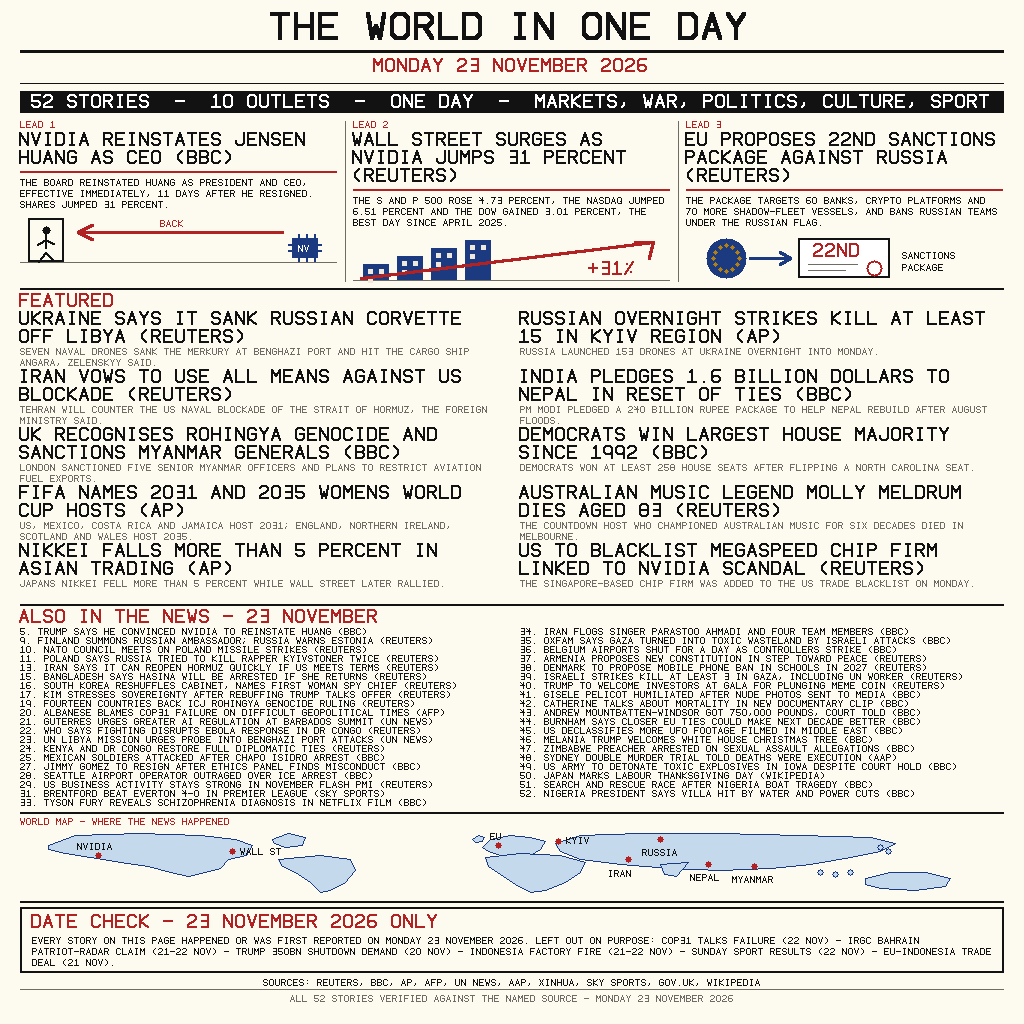
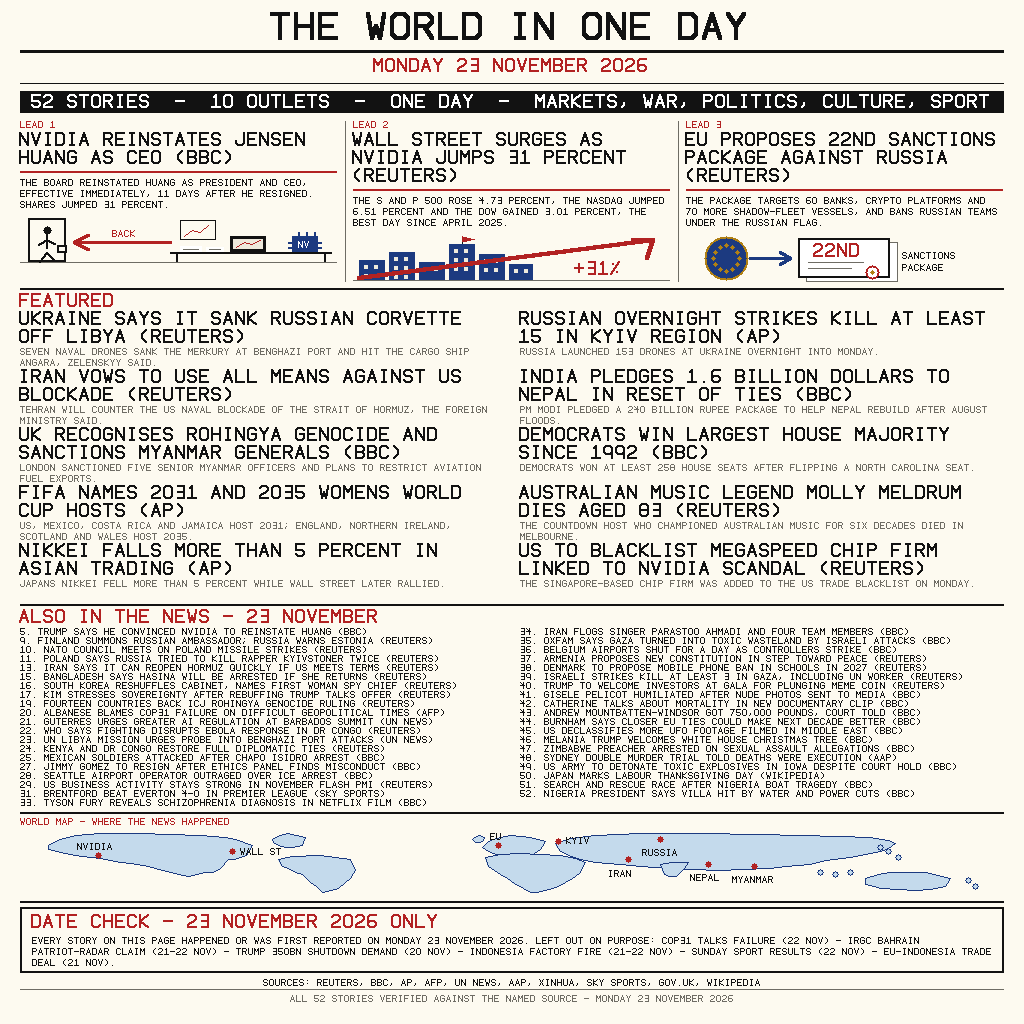
Rev2: detailed lead scenes + smoother world map (52 verified stories)

diff --git a/main.py b/main.py
@@ -303,61 +303,86 @@ DATE_CHECK = ("EVERY STORY ON THIS PAGE HAPPENED OR WAS FIRST REPORTED ON "
 # no network. Written fresh for this revision; each scene is 48 px tall.
 
 def draw_lead1(c, x, y, w):
-    """Nvidia CEO returns: a figure walks back through an office door,
-    a red BACK arrow points in, a chip waits on the right."""
+    """Nvidia CEO returns: a richer office scene — open door, a figure
+    walking back in with a briefcase, desk with monitor, papers and a
+    chip, a wall chart, and a red BACK arrow pointing into the door."""
     c.hline(x, y + 46, w, GREY, 1)
     # open doorway, left
-    c.box(x + 8, y + 2, 36, 44, INK, 2)
-    # figure walking in through the door
-    hx, hy = x + 26, y + 14
+    c.box(x + 8, y + 2, 38, 44, INK, 2)
+    # figure walking in through the door, briefcase in hand
+    hx, hy = x + 27, y + 14
     c.circle(hx, hy, 4, INK)
     c.line(hx, hy + 5, hx, hy + 18, INK, 2)
     c.line(hx, hy + 23, hx - 7, hy + 32, INK, 2)
     c.line(hx, hy + 23, hx + 7, hy + 30, INK, 2)
     c.line(hx, hy + 10, hx - 8, hy + 15, INK, 2)
     c.line(hx, hy + 10, hx + 8, hy + 14, INK, 2)
+    c.rect(hx + 10, hy + 15, 10, 8, INK)
+    c.rect(hx + 12, hy + 17, 6, 4, PAPER)
     # red BACK arrow pointing left into the door
-    c.line(x + 262, y + 16, x + 58, y + 16, RED, 3)
-    c.line(x + 58, y + 16, x + 72, y + 9, RED, 3)
-    c.line(x + 58, y + 16, x + 72, y + 23, RED, 3)
-    c.text("BACK", x + 140, y + 4, 1, RED)
-    # chip, right
-    c.rect(x + 272, y + 22, 26, 20, BLUE)
+    c.line(x + 150, y + 26, x + 54, y + 26, RED, 3)
+    c.line(x + 54, y + 26, x + 68, y + 19, RED, 3)
+    c.line(x + 54, y + 26, x + 68, y + 33, RED, 3)
+    c.text("BACK", x + 92, y + 14, 1, RED)
+    # framed wall chart
+    c.box(x + 160, y + 4, 36, 20, INK, 1)
+    c.line(x + 164, y + 20, x + 172, y + 14, RED, 1)
+    c.line(x + 172, y + 14, x + 180, y + 16, RED, 1)
+    c.line(x + 180, y + 16, x + 188, y + 9, RED, 1)
+    # desk with papers, monitor and chip
+    c.hline(x + 150, y + 36, 162, INK, 2)
+    c.vline(x + 156, y + 36, 10, INK, 2)
+    c.vline(x + 304, y + 36, 10, INK, 2)
+    c.rect(x + 160, y + 30, 22, 6, WHITE)
+    c.hline(x + 163, y + 33, 16, GREY, 1)
+    c.rect(x + 186, y + 31, 18, 5, WHITE)
+    c.hline(x + 189, y + 33, 12, GREY, 1)
+    c.rect(x + 210, y + 20, 36, 16, INK)
+    c.rect(x + 213, y + 23, 30, 10, LIGHT)
+    c.line(x + 216, y + 31, x + 224, y + 26, RED, 1)
+    c.line(x + 224, y + 26, x + 232, y + 28, RED, 1)
+    c.line(x + 232, y + 28, x + 240, y + 24, RED, 1)
+    # chip, right, sitting on the desk
+    c.rect(x + 272, y + 20, 26, 16, BLUE)
     for px in (x + 278, x + 286, x + 294):
-        c.vline(px, y + 18, 4, BLUE, 2)
-        c.vline(px, y + 42, 4, BLUE, 2)
-    c.hline(x + 268, y + 28, 4, BLUE, 2)
-    c.hline(x + 268, y + 34, 4, BLUE, 2)
-    c.hline(x + 298, y + 28, 4, BLUE, 2)
-    c.hline(x + 298, y + 34, 4, BLUE, 2)
-    c.text("NV", x + 278, y + 29, 1, WHITE)
+        c.vline(px, y + 16, 4, BLUE, 2)
+    c.hline(x + 268, y + 26, 4, BLUE, 2)
+    c.hline(x + 268, y + 31, 4, BLUE, 2)
+    c.hline(x + 298, y + 26, 4, BLUE, 2)
+    c.hline(x + 298, y + 31, 4, BLUE, 2)
+    c.text("NV", x + 278, y + 25, 1, WHITE)
 
 
 def draw_lead2(c, x, y, w):
-    """Wall Street surges: a rising skyline and a red arrow climbing
-    past it, +31% at the top."""
+    """Wall Street surges: a fuller skyline with lit windows, a flag on
+    the tallest tower, and a bold red arrow climbing past it, +31%."""
     c.hline(x, y + 46, w, GREY, 1)
-    # skyline, buildings of rising height
-    builds = [(10, 30, 26, 16), (44, 22, 26, 24), (78, 14, 26, 32),
-              (112, 6, 26, 40)]
-    for bx, by, bw, bh in builds:
-        c.rect(x + bx, y + by, bw, bh, BLUE)
-        c.rect(x + bx + 5, y + by + 5, 5, 5, LIGHT)
-        c.rect(x + bx + 16, y + by + 5, 5, 5, LIGHT)
-        c.rect(x + bx + 5, y + by + 14, 5, 5, LIGHT)
-    # rising arrow over the skyline
-    c.line(x + 8, y + 44, x + 300, y + 8, RED, 3)
-    c.line(x + 300, y + 8, x + 282, y + 8, RED, 3)
-    c.line(x + 300, y + 8, x + 296, y + 24, RED, 3)
-    c.text("+31%", x + 236, y + 28, 2, RED)
+    # skyline, six buildings of rising and falling height
+    builds = [(6, 26, 26), (36, 18, 26), (66, 28, 26),
+              (96, 10, 26), (126, 20, 26), (156, 30, 24)]
+    for bx, top, bw in builds:
+        c.rect(x + bx, y + top, bw, 46 - top, BLUE)
+        for wx in (bx + 5, bx + 15):
+            if wx + 4 > bx + bw - 3:
+                continue
+            for wy in range(top + 5, 42, 9):
+                c.rect(x + wx, y + wy, 4, 4, LIGHT)
+    # flag on the tallest tower
+    c.vline(x + 109, y + 2, 8, INK, 1)
+    c.poly([(x + 109, y + 2), (x + 121, y + 5), (x + 109, y + 8)], RED)
+    # bold rising arrow over the skyline
+    c.line(x + 6, y + 44, x + 300, y + 6, RED, 4)
+    c.line(x + 300, y + 6, x + 280, y + 6, RED, 4)
+    c.line(x + 300, y + 6, x + 294, y + 24, RED, 4)
+    c.text("+31%", x + 222, y + 28, 2, RED)
 
 
 def draw_lead3(c, x, y, w):
-    """EU sanctions package: a blue circle of gold stars, an arrow to
-    a stamped document marked 22ND."""
-    # EU circle of stars
+    """EU sanctions package: a gold-rimmed circle of stars, an arrow to
+    a layered document with a red seal, 22ND clear."""
+    # EU circle of stars with a gold rim
     cx, cy = x + 40, y + 24
-    c.circle(cx, cy, 20, BLUE)
+    c.ring(cx, cy, 22, GOLD, 2, BLUE)
     for k in range(12):
         ang = math.radians(k * 30)
         sx = cx + int(13 * math.cos(ang))
@@ -367,14 +392,17 @@ def draw_lead3(c, x, y, w):
     c.line(x + 64, y + 24, x + 104, y + 24, BLUE, 3)
     c.line(x + 104, y + 24, x + 94, y + 18, BLUE, 3)
     c.line(x + 104, y + 24, x + 94, y + 30, BLUE, 3)
-    # document
+    # layered document: back sheet offset, front sheet with seal
+    c.rect(x + 120, y + 8, 92, 40, WHITE)
+    c.box(x + 120, y + 8, 92, 40, GREY, 1)
     c.rect(x + 112, y + 4, 92, 40, WHITE)
     c.box(x + 112, y + 4, 92, 40, INK, 2)
     c.text("22ND", x + 128, y + 10, 2, RED)
-    c.hline(x + 122, y + 30, 50, GREY, 1)
-    c.hline(x + 122, y + 36, 38, GREY, 1)
-    # stamp ring, bottom right of the document
-    c.ring(x + 188, y + 34, 8, RED, 2, WHITE)
+    c.hline(x + 122, y + 28, 56, GREY, 1)
+    c.hline(x + 122, y + 34, 44, GREY, 1)
+    # red seal with a gold centre on the document
+    c.ring(x + 186, y + 38, 7, RED, 2, WHITE)
+    c.circle(x + 186, y + 38, 2, GOLD)
     # caption
     c.text("SANCTIONS", x + 216, y + 18, 1, INK)
     c.text("PACKAGE", x + 216, y + 30, 1, INK)
@@ -383,25 +411,38 @@ def draw_lead3(c, x, y, w):
 # Stylized world map: simplified continent polygons in a 984x64 box.
 # Positions are relative, not a precise projection.
 MAP_CONTINENTS = [
-    [(28, 16), (55, 6), (120, 4), (180, 6), (215, 10), (232, 16),
-     (226, 26), (208, 30), (200, 38), (185, 42), (168, 46), (150, 42),
-     (128, 36), (100, 32), (70, 28), (45, 24), (28, 20)],
-    [(252, 10), (268, 4), (285, 8), (282, 16), (265, 18), (254, 14)],
-    [(258, 30), (300, 26), (330, 30), (335, 40), (325, 52), (310, 60),
-     (300, 62), (290, 52), (275, 42), (262, 36)],
-    [(452, 10), (458, 6), (464, 8), (462, 12), (455, 13)],
-    [(462, 18), (470, 10), (490, 6), (510, 8), (525, 12), (520, 20),
-     (510, 26), (495, 28), (480, 26), (468, 22)],
-    [(465, 28), (500, 24), (540, 26), (565, 32), (560, 42), (545, 52),
-     (525, 60), (510, 62), (495, 54), (480, 44), (468, 36)],
-    [(535, 14), (560, 6), (620, 4), (700, 4), (780, 6), (850, 8),
-     (875, 14), (860, 22), (830, 28), (790, 34), (750, 38), (700, 40),
-     (650, 38), (600, 34), (560, 30), (540, 22)],
-    [(640, 34), (668, 32), (656, 46), (644, 44)],
-    [(845, 48), (870, 42), (905, 42), (930, 48), (925, 56), (895, 60),
-     (860, 58), (845, 54)],
+    [(28, 16), (40, 10), (55, 6), (80, 4), (120, 4), (150, 5),
+     (180, 6), (205, 8), (215, 10), (232, 16), (226, 26), (214, 30),
+     (208, 30), (200, 38), (192, 42), (185, 42), (176, 44), (168, 46),
+     (158, 44), (150, 42), (135, 38), (128, 36), (110, 33), (100, 32),
+     (80, 29), (70, 28), (55, 26), (45, 24), (36, 22), (28, 20)],
+    [(252, 10), (260, 6), (268, 4), (276, 6), (285, 8), (282, 16),
+     (272, 18), (265, 18), (258, 16), (254, 14)],
+    [(258, 30), (272, 27), (300, 26), (315, 28), (330, 30), (335, 40),
+     (330, 48), (325, 52), (318, 58), (310, 60), (302, 62), (296, 56),
+     (290, 52), (282, 44), (275, 42), (268, 38), (262, 36)],
+    [(452, 10), (456, 7), (460, 6), (464, 8), (463, 11), (459, 13),
+     (455, 13)],
+    [(462, 18), (468, 12), (476, 9), (490, 6), (502, 7), (510, 8),
+     (518, 10), (525, 12), (522, 17), (520, 20), (514, 24), (510, 26),
+     (502, 28), (495, 28), (486, 27), (480, 26), (472, 24), (468, 22)],
+    [(465, 28), (480, 25), (500, 24), (520, 25), (540, 26), (555, 29),
+     (565, 32), (562, 38), (560, 42), (552, 48), (545, 52), (535, 57),
+     (525, 60), (516, 62), (510, 62), (503, 58), (495, 54), (487, 48),
+     (480, 44), (474, 40), (468, 36)],
+    [(535, 14), (550, 9), (575, 6), (620, 4), (680, 4), (740, 5),
+     (780, 6), (820, 7), (850, 8), (868, 11), (875, 14), (868, 19),
+     (860, 22), (845, 25), (830, 28), (805, 31), (790, 34), (765, 36),
+     (750, 38), (720, 39), (700, 40), (670, 39), (650, 38), (620, 36),
+     (600, 34), (575, 32), (560, 30), (548, 26), (540, 22)],
+    [(640, 34), (652, 32), (668, 32), (664, 38), (656, 46), (648, 46),
+     (644, 44)],
+    [(845, 48), (858, 44), (870, 42), (888, 42), (905, 42), (918, 45),
+     (930, 48), (928, 52), (925, 56), (910, 59), (895, 60), (878, 59),
+     (860, 58), (850, 55), (845, 54)],
 ]
-MAP_ISLANDS = [(800, 42), (815, 44), (830, 42), (860, 18), (868, 22)]
+MAP_ISLANDS = [(800, 42), (815, 44), (830, 42), (860, 18), (868, 22),
+               (878, 28), (948, 50), (955, 56)]
 # (u, v, label, label_x, label_y) - marker dots + labels
 MAP_MARKERS = [
     (78, 26, "NVIDIA", 57, 14),
